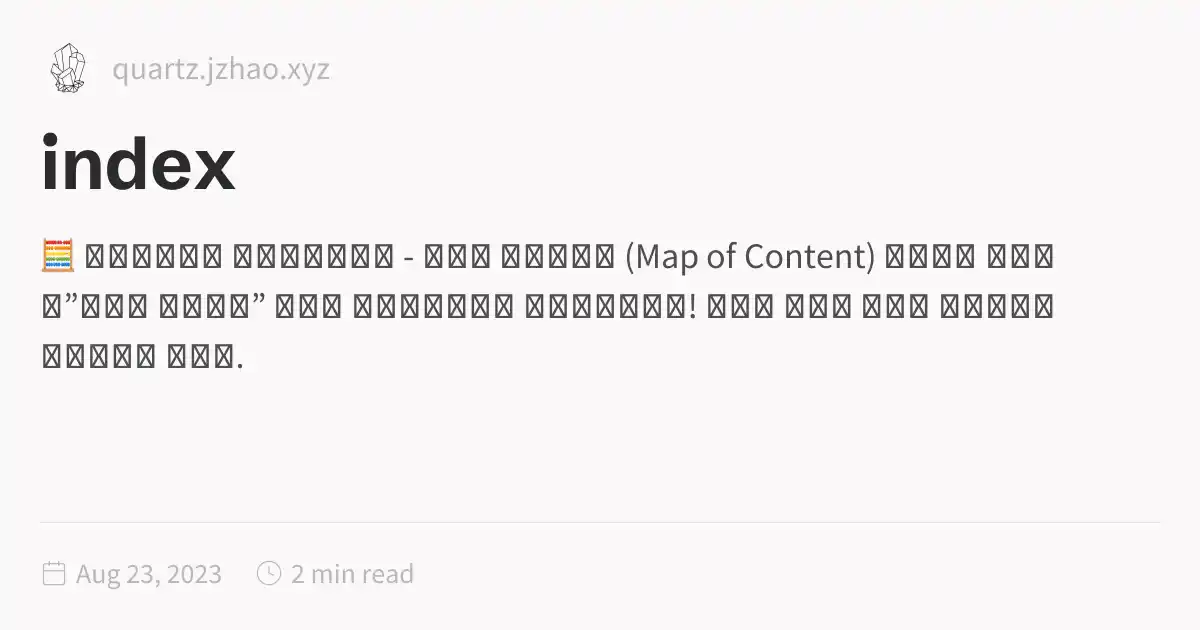
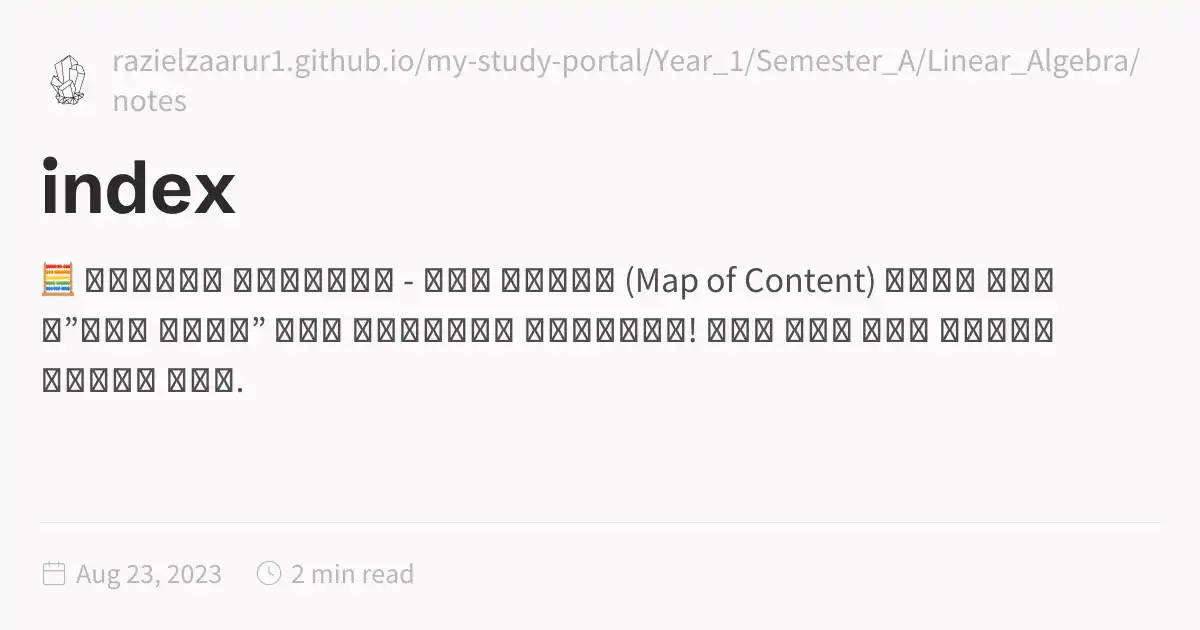
Add files via upload

Changed region(s): [[0.0308, 0.2111, 0.8942, 0.6333], [0.0308, 0.0603, 0.9558, 0.181]]

diff --git a/Year_1/Semester_A/Linear_Algebra/notes/index.html b/Year_1/Semester_A/Linear_Algebra/notes/index.html
@@ -1,5 +1,5 @@
 <!DOCTYPE html>
-<html lang="en" dir="ltr"><head><title>index</title><meta charset="utf-8"/><link rel="preconnect" href="https://fonts.googleapis.com"/><link rel="preconnect" href="https://fonts.gstatic.com"/><link rel="stylesheet" href="https://fonts.googleapis.com/css2?family=Schibsted Grotesk:wght@400;700&amp;family=Source Sans Pro:ital,wght@0,400;0,600;1,400;1,600&amp;family=IBM Plex Mono:wght@400;600&amp;display=swap"/><link rel="preconnect" href="https://cdnjs.cloudflare.com" crossorigin="anonymous"/><meta name="viewport" content="width=device-width, initial-scale=1.0"/><meta name="og:site_name" content="Quartz 4"/><meta property="og:title" content="index"/><meta property="og:type" content="website"/><meta name="twitter:card" content="summary_large_image"/><meta name="twitter:title" content="index"/><meta name="twitter:description" content="🧮 אלגברה לינארית - מפת חשיבה (Map of Content) ברוך הבא ל”מוח השני” שלך לאלגברה לינארית! הדף הזה הוא נקודת המוצא שלך."/><meta property="og:description" content="🧮 אלגברה לינארית - מפת חשיבה (Map of Content) ברוך הבא ל”מוח השני” שלך לאלגברה לינארית! הדף הזה הוא נקודת המוצא שלך."/><meta property="og:image:alt" content="🧮 אלגברה לינארית - מפת חשיבה (Map of Content) ברוך הבא ל”מוח השני” שלך לאלגברה לינארית! הדף הזה הוא נקודת המוצא שלך."/><meta property="twitter:domain" content="quartz.jzhao.xyz"/><meta property="og:url" content="https://quartz.jzhao.xyz/index"/><meta property="twitter:url" content="https://quartz.jzhao.xyz/index"/><link rel="icon" href="./static/icon.png"/><meta name="description" content="🧮 אלגברה לינארית - מפת חשיבה (Map of Content) ברוך הבא ל”מוח השני” שלך לאלגברה לינארית! הדף הזה הוא נקודת המוצא שלך."/><meta name="generator" content="Quartz"/><link href="./index.css" rel="stylesheet" type="text/css" data-persist="true"/><style>.expand-button {
+<html lang="en" dir="ltr"><head><title>index</title><meta charset="utf-8"/><link rel="preconnect" href="https://fonts.googleapis.com"/><link rel="preconnect" href="https://fonts.gstatic.com"/><link rel="stylesheet" href="https://fonts.googleapis.com/css2?family=Schibsted Grotesk:wght@400;700&amp;family=Source Sans Pro:ital,wght@0,400;0,600;1,400;1,600&amp;family=IBM Plex Mono:wght@400;600&amp;display=swap"/><link rel="preconnect" href="https://cdnjs.cloudflare.com" crossorigin="anonymous"/><meta name="viewport" content="width=device-width, initial-scale=1.0"/><meta name="og:site_name" content="Quartz 4"/><meta property="og:title" content="index"/><meta property="og:type" content="website"/><meta name="twitter:card" content="summary_large_image"/><meta name="twitter:title" content="index"/><meta name="twitter:description" content="🧮 אלגברה לינארית - מפת חשיבה (Map of Content) ברוך הבא ל”מוח השני” שלך לאלגברה לינארית! הדף הזה הוא נקודת המוצא שלך."/><meta property="og:description" content="🧮 אלגברה לינארית - מפת חשיבה (Map of Content) ברוך הבא ל”מוח השני” שלך לאלגברה לינארית! הדף הזה הוא נקודת המוצא שלך."/><meta property="og:image:alt" content="🧮 אלגברה לינארית - מפת חשיבה (Map of Content) ברוך הבא ל”מוח השני” שלך לאלגברה לינארית! הדף הזה הוא נקודת המוצא שלך."/><meta property="twitter:domain" content="razielzaarur1.github.io/my-study-portal/Year_1/Semester_A/Linear_Algebra/notes"/><meta property="og:url" content="https://razielzaarur1.github.io/my-study-portal/Year_1/Semester_A/Linear_Algebra/notes/index"/><meta property="twitter:url" content="https://razielzaarur1.github.io/my-study-portal/Year_1/Semester_A/Linear_Algebra/notes/index"/><link rel="icon" href="./static/icon.png"/><meta name="description" content="🧮 אלגברה לינארית - מפת חשיבה (Map of Content) ברוך הבא ל”מוח השני” שלך לאלגברה לינארית! הדף הזה הוא נקודת המוצא שלך."/><meta name="generator" content="Quartz"/><link href="./index.css" rel="stylesheet" type="text/css" data-persist="true"/><style>.expand-button {
   position: absolute;
   display: flex;
   float: right;
@@ -115,7 +115,7 @@ pre:hover > .expand-button {
   padding: 0 12px;
   font-size: 14px;
 }
[2 lines of base64/hex data omitted]
 <p>ברוך הבא ל”מוח השני” שלך לאלגברה לינארית!
 הדף הזה הוא נקודת המוצא שלך. מכאן תוכל לנווט לכל אחד מפרקי הקורס, ומשם לצלול לתוך ההגדרות, המשפטים והמושגים הספציפיים.</p>
 <hr/>

diff --git a/Year_1/Semester_A/Linear_Algebra/notes/404.html b/Year_1/Semester_A/Linear_Algebra/notes/404.html
@@ -1,5 +1,5 @@
 <!DOCTYPE html>
-<html lang="en" dir="ltr"><head><title>Not Found</title><meta charset="utf-8"/><link rel="preconnect" href="https://fonts.googleapis.com"/><link rel="preconnect" href="https://fonts.gstatic.com"/><link rel="stylesheet" href="https://fonts.googleapis.com/css2?family=Schibsted Grotesk:wght@400;700&amp;family=Source Sans Pro:ital,wght@0,400;0,600;1,400;1,600&amp;family=IBM Plex Mono:wght@400;600&amp;display=swap"/><link rel="preconnect" href="https://cdnjs.cloudflare.com" crossorigin="anonymous"/><meta name="viewport" content="width=device-width, initial-scale=1.0"/><meta name="og:site_name" content="Quartz 4"/><meta property="og:title" content="Not Found"/><meta property="og:type" content="website"/><meta name="twitter:card" content="summary_large_image"/><meta name="twitter:title" content="Not Found"/><meta name="twitter:description" content="Not Found"/><meta property="og:description" content="Not Found"/><meta property="og:image:alt" content="Not Found"/><meta property="twitter:domain" content="quartz.jzhao.xyz"/><meta property="og:url" content="https://quartz.jzhao.xyz/"/><meta property="twitter:url" content="https://quartz.jzhao.xyz/"/><link rel="icon" href="/static/icon.png"/><meta name="description" content="Not Found"/><meta name="generator" content="Quartz"/><link href="/index.css" rel="stylesheet" type="text/css" data-persist="true"/><style>.expand-button {
+<html lang="en" dir="ltr"><head><title>Not Found</title><meta charset="utf-8"/><link rel="preconnect" href="https://fonts.googleapis.com"/><link rel="preconnect" href="https://fonts.gstatic.com"/><link rel="stylesheet" href="https://fonts.googleapis.com/css2?family=Schibsted Grotesk:wght@400;700&amp;family=Source Sans Pro:ital,wght@0,400;0,600;1,400;1,600&amp;family=IBM Plex Mono:wght@400;600&amp;display=swap"/><link rel="preconnect" href="https://cdnjs.cloudflare.com" crossorigin="anonymous"/><meta name="viewport" content="width=device-width, initial-scale=1.0"/><meta name="og:site_name" content="Quartz 4"/><meta property="og:title" content="Not Found"/><meta property="og:type" content="website"/><meta name="twitter:card" content="summary_large_image"/><meta name="twitter:title" content="Not Found"/><meta name="twitter:description" content="Not Found"/><meta property="og:description" content="Not Found"/><meta property="og:image:alt" content="Not Found"/><meta property="twitter:domain" content="razielzaarur1.github.io/my-study-portal/Year_1/Semester_A/Linear_Algebra/notes"/><meta property="og:url" content="https://razielzaarur1.github.io/my-study-portal/Year_1/Semester_A/Linear_Algebra/notes"/><meta property="twitter:url" content="https://razielzaarur1.github.io/my-study-portal/Year_1/Semester_A/Linear_Algebra/notes"/><link rel="icon" href="/my-study-portal/Year_1/Semester_A/Linear_Algebra/notes/static/icon.png"/><meta name="description" content="Not Found"/><meta name="generator" content="Quartz"/><link href="/my-study-portal/Year_1/Semester_A/Linear_Algebra/notes/index.css" rel="stylesheet" type="text/css" data-persist="true"/><style>.expand-button {
   position: absolute;
   display: flex;
   float: right;
@@ -115,6 +115,6 @@ pre:hover > .expand-button {
   padding: 0 12px;
   font-size: 14px;
 }
[2 lines of base64/hex data omitted]
 </script><script type="module" data-persist="true">function E(a,e){if(!a)return;function t(o){o.target===this&&(o.preventDefault(),o.stopPropagation(),e())}function n(o){o.key.startsWith("Esc")&&(o.preventDefault(),e())}a?.addEventListener("click",t),window.addCleanup(()=>a?.removeEventListener("click",t)),document.addEventListener("keydown",n),window.addCleanup(()=>document.removeEventListener("keydown",n))}function f(a){for(;a.firstChild;)a.removeChild(a.firstChild)}var m=class{constructor(e,t){this.container=e;this.content=t;this.setupEventListeners(),this.setupNavigationControls(),this.resetTransform()}isDragging=!1;startPan={x:0,y:0};currentPan={x:0,y:0};scale=1;MIN_SCALE=.5;MAX_SCALE=3;cleanups=[];setupEventListeners(){let e=this.onMouseDown.bind(this),t=this.onMouseMove.bind(this),n=this.onMouseUp.bind(this),o=this.onTouchStart.bind(this),r=this.onTouchMove.bind(this),i=this.onTouchEnd.bind(this),s=this.resetTransform.bind(this);this.container.addEventListener("mousedown",e),document.addEventListener("mousemove",t),document.addEventListener("mouseup",n),this.container.addEventListener("touchstart",o,{passive:!1}),document.addEventListener("touchmove",r,{passive:!1}),document.addEventListener("touchend",i),window.addEventListener("resize",s),this.cleanups.push(()=>this.container.removeEventListener("mousedown",e),()=>document.removeEventListener("mousemove",t),()=>document.removeEventListener("mouseup",n),()=>this.container.removeEventListener("touchstart",o),()=>document.removeEventListener("touchmove",r),()=>document.removeEventListener("touchend",i),()=>window.removeEventListener("resize",s))}cleanup(){for(let e of this.cleanups)e()}setupNavigationControls(){let e=document.createElement("div");e.className="mermaid-controls";let t=this.createButton("+",()=>this.zoom(.1)),n=this.createButton("-",()=>this.zoom(-.1)),o=this.createButton("Reset",()=>this.resetTransform());e.appendChild(n),e.appendChild(o),e.appendChild(t),this.container.appendChild(e)}createButton(e,t){let n=document.createElement("button");return n.textContent=e,n.className="mermaid-control-button",n.addEventListener("click",t),window.addCleanup(()=>n.removeEventListener("click",t)),n}onMouseDown(e){e.button===0&&(this.isDragging=!0,this.startPan={x:e.clientX-this.currentPan.x,y:e.clientY-this.currentPan.y},this.container.style.cursor="grabbing")}onMouseMove(e){this.isDragging&&(e.preventDefault(),this.currentPan={x:e.clientX-this.startPan.x,y:e.clientY-this.startPan.y},this.updateTransform())}onMouseUp(){this.isDragging=!1,this.container.style.cursor="grab"}onTouchStart(e){if(e.touches.length!==1)return;this.isDragging=!0;let t=e.touches[0];this.startPan={x:t.clientX-this.currentPan.x,y:t.clientY-this.currentPan.y}}onTouchMove(e){if(!this.isDragging||e.touches.length!==1)return;e.preventDefault();let t=e.touches[0];this.currentPan={x:t.clientX-this.startPan.x,y:t.clientY-this.startPan.y},this.updateTransform()}onTouchEnd(){this.isDragging=!1}zoom(e){let t=Math.min(Math.max(this.scale+e,this.MIN_SCALE),this.MAX_SCALE),n=this.content.getBoundingClientRect(),o=n.width/2,r=n.height/2,i=t-this.scale;this.currentPan.x-=o*i,this.currentPan.y-=r*i,this.scale=t,this.updateTransform()}updateTransform(){this.content.style.transform=`translate(${this.currentPan.x}px, ${this.currentPan.y}px) scale(${this.scale})`}resetTransform(){let t=this.content.querySelector("svg").getBoundingClientRect(),n=t.width/this.scale,o=t.height/this.scale;this.scale=1,this.currentPan={x:(this.container.clientWidth-n)/2,y:(this.container.clientHeight-o)/2},this.updateTransform()}},T=["--secondary","--tertiary","--gray","--light","--lightgray","--highlight","--dark","--darkgray","--codeFont"],y;document.addEventListener("nav",async()=>{let e=document.querySelector(".center").querySelectorAll("code.mermaid");if(e.length===0)return;y||=await import("https://cdnjs.cloudflare.com/ajax/libs/mermaid/11.4.0/mermaid.esm.min.mjs");let t=y.default,n=new WeakMap;for(let r of e)n.set(r,r.innerText);async function o(){for(let s of e){s.removeAttribute("data-processed");let c=n.get(s);c&&(s.innerHTML=c)}let r=T.reduce((s,c)=>(s[c]=window.getComputedStyle(document.documentElement).getPropertyValue(c),s),{}),i=document.documentElement.getAttribute("saved-theme")==="dark";t.initialize({startOnLoad:!1,securityLevel:"loose",theme:i?"dark":"base",themeVariables:{fontFamily:r["--codeFont"],primaryColor:r["--light"],primaryTextColor:r["--darkgray"],primaryBorderColor:r["--tertiary"],lineColor:r["--darkgray"],secondaryColor:r["--secondary"],tertiaryColor:r["--tertiary"],clusterBkg:r["--light"],edgeLabelBackground:r["--highlight"]}}),await t.run({nodes:e})}await o(),document.addEventListener("themechange",o),window.addCleanup(()=>document.removeEventListener("themechange",o));for(let r=0;r<e.length;r++){let v=function(){let g=l.querySelector("#mermaid-space"),h=l.querySelector(".mermaid-content");if(!h)return;f(h);let w=i.querySelector("svg").cloneNode(!0);h.appendChild(w),l.classList.add("active"),g.style.cursor="grab",u=new m(g,h)},M=function(){l.classList.remove("active"),u?.cleanup(),u=null},i=e[r],s=i.parentElement,c=s.querySelector(".clipboard-button"),d=s.querySelector(".expand-button"),p=window.getComputedStyle(c),L=c.offsetWidth+parseFloat(p.marginLeft||"0")+parseFloat(p.marginRight||"0");d.style.right=`calc(${L}px + 0.3rem)`,s.prepend(d);let l=s.querySelector("#mermaid-container");if(!l)return;let u=null;d.addEventListener("click",v),E(l,M),window.addCleanup(()=>{u?.cleanup(),d.removeEventListener("click",v)})}});
-</script><script src="https://cdn.jsdelivr.net/npm/katex@0.16.11/dist/contrib/copy-tex.min.js" type="application/javascript" data-persist="true"></script><script src="/postscript.js" type="module" data-persist="true"></script></html>
+</script><script src="https://cdn.jsdelivr.net/npm/katex@0.16.11/dist/contrib/copy-tex.min.js" type="application/javascript" data-persist="true"></script><script src="/my-study-portal/Year_1/Semester_A/Linear_Algebra/notes/postscript.js" type="module" data-persist="true"></script></html>
